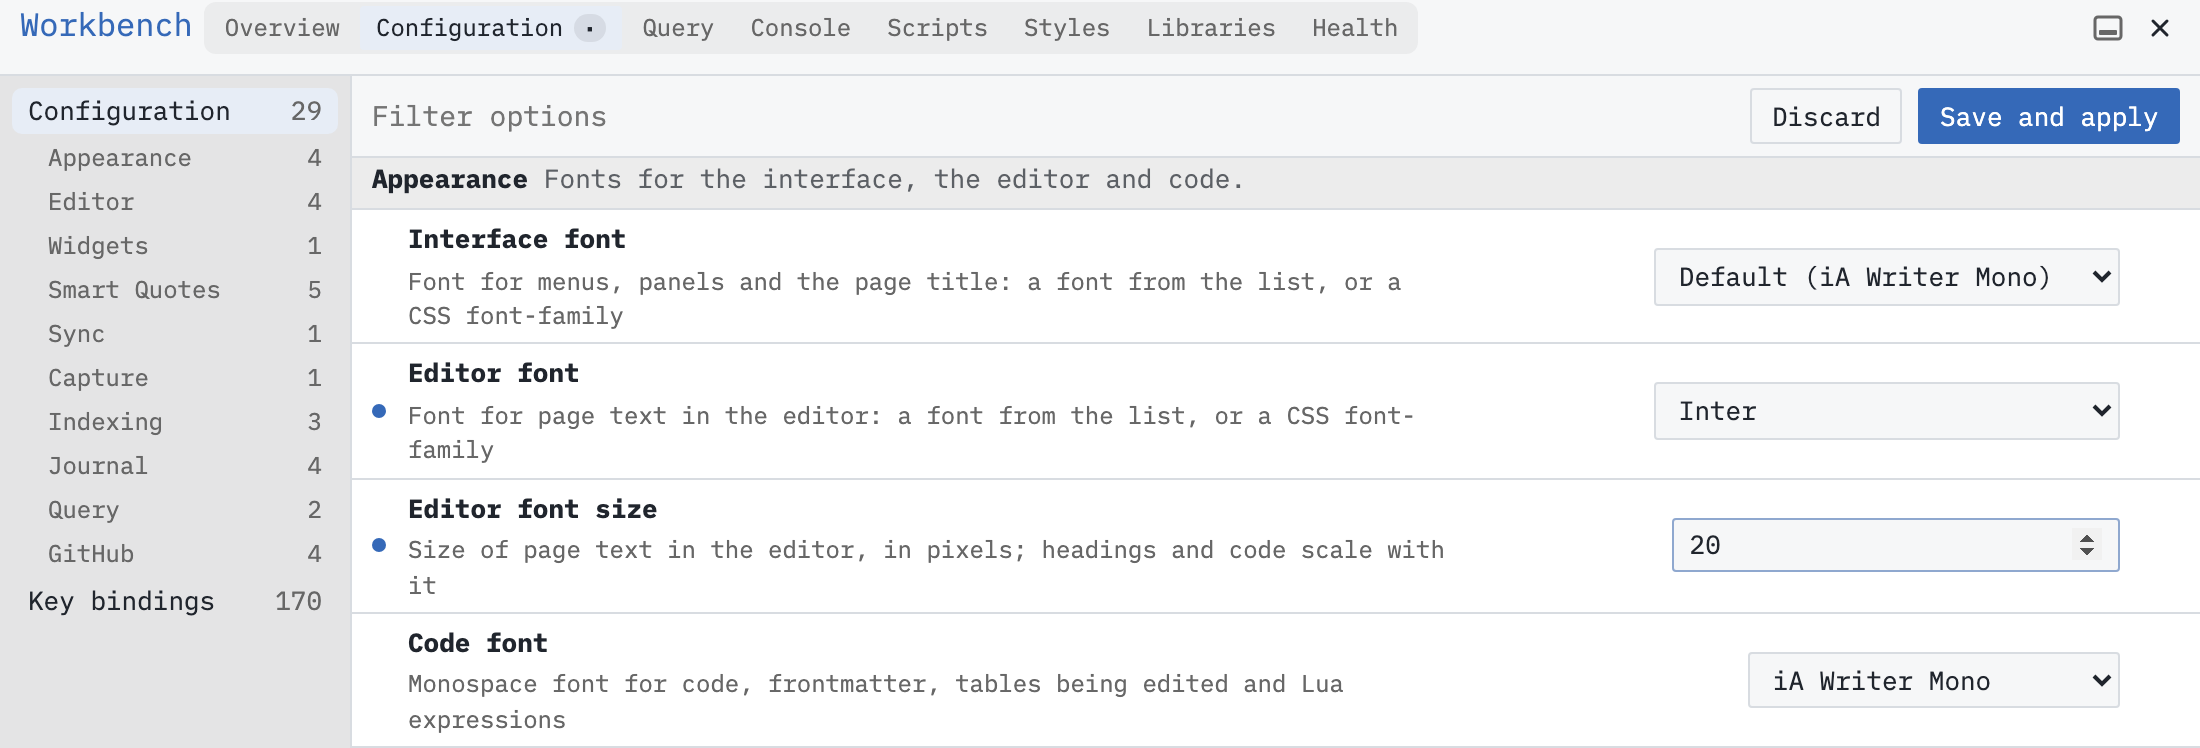
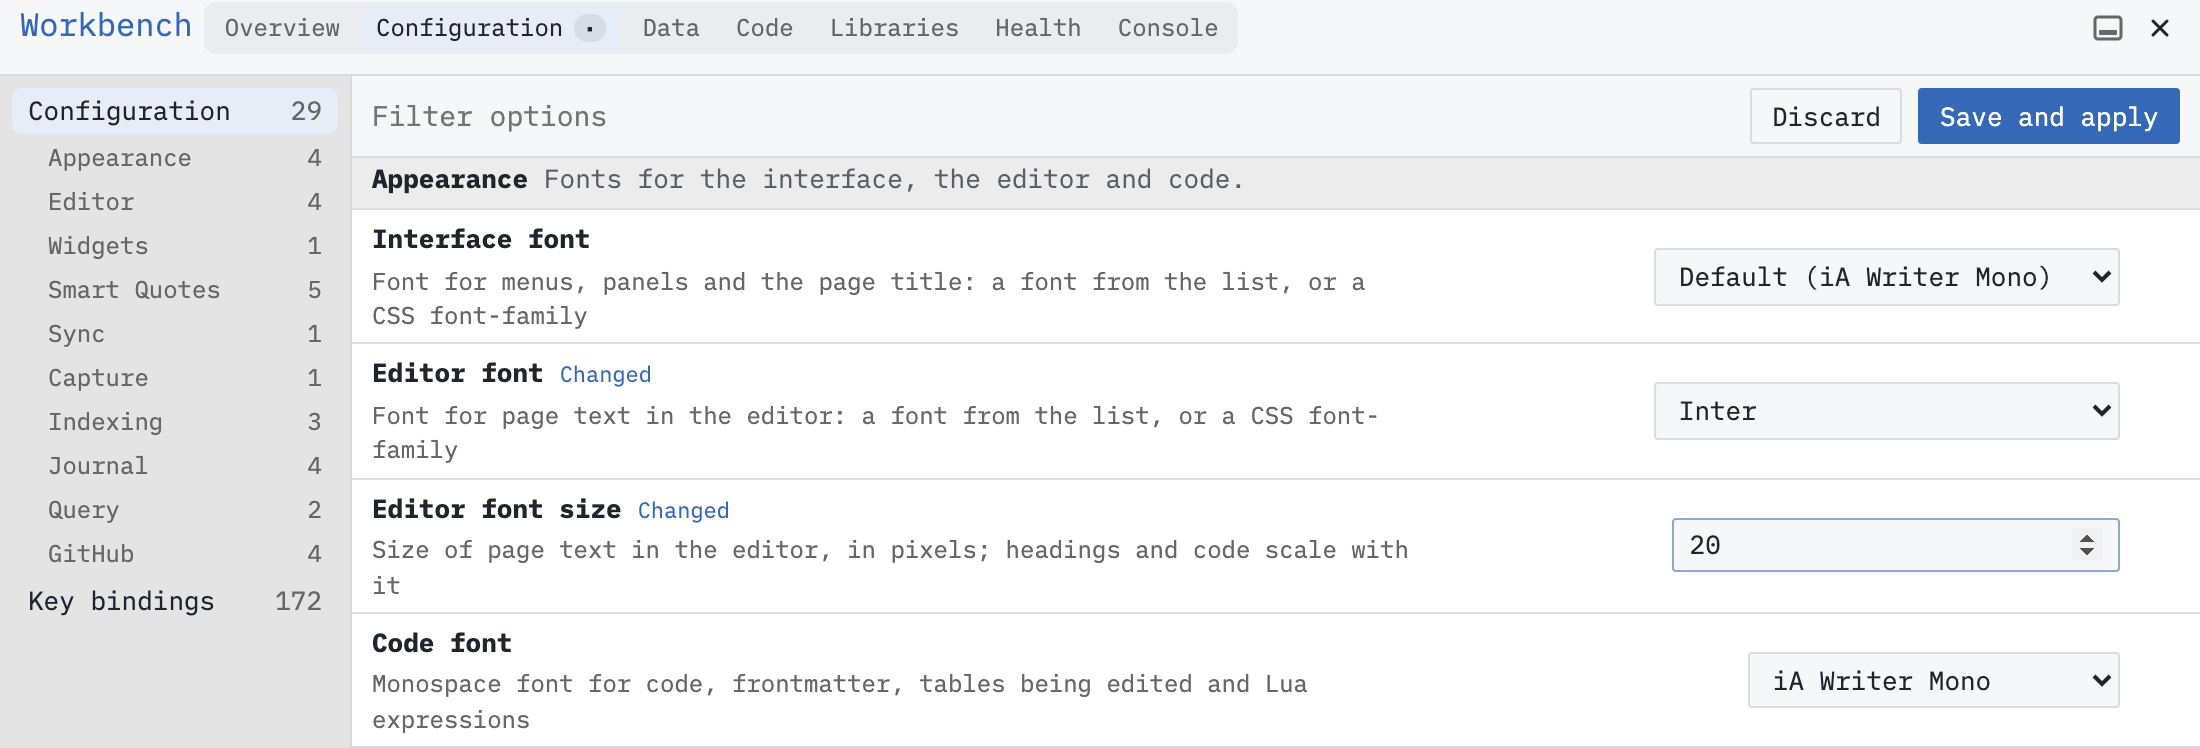
docs: updated screenshots

diff --git a/docs/Guide/Add Structure and Query.md b/docs/Guide/Add Structure and Query.md
@@ -59,7 +59,7 @@ You can use the same attributes to make a live overview of your outings. Open th
 
 The preview should show `Photo Walk` dated June 14, then `Woodland Hike` dated June 21, both with status `planned`. Other pages tagged `outing` in your space will appear too. If a page or attribute is missing, check its form and allow a moment for saving and indexing.
 
-![Workbench Query lists the two outing pages with their dates and status.](../Screenshots/outing-query-builder.png)
+![The Workbench Data tab lists the two outing pages with their dates and status.](../Screenshots/outing-query-builder.png)
 
 This is a query: a saved instruction to find matching objects and show selected attributes. Workbench writes it for you using SilverBullet’s query language.
 
